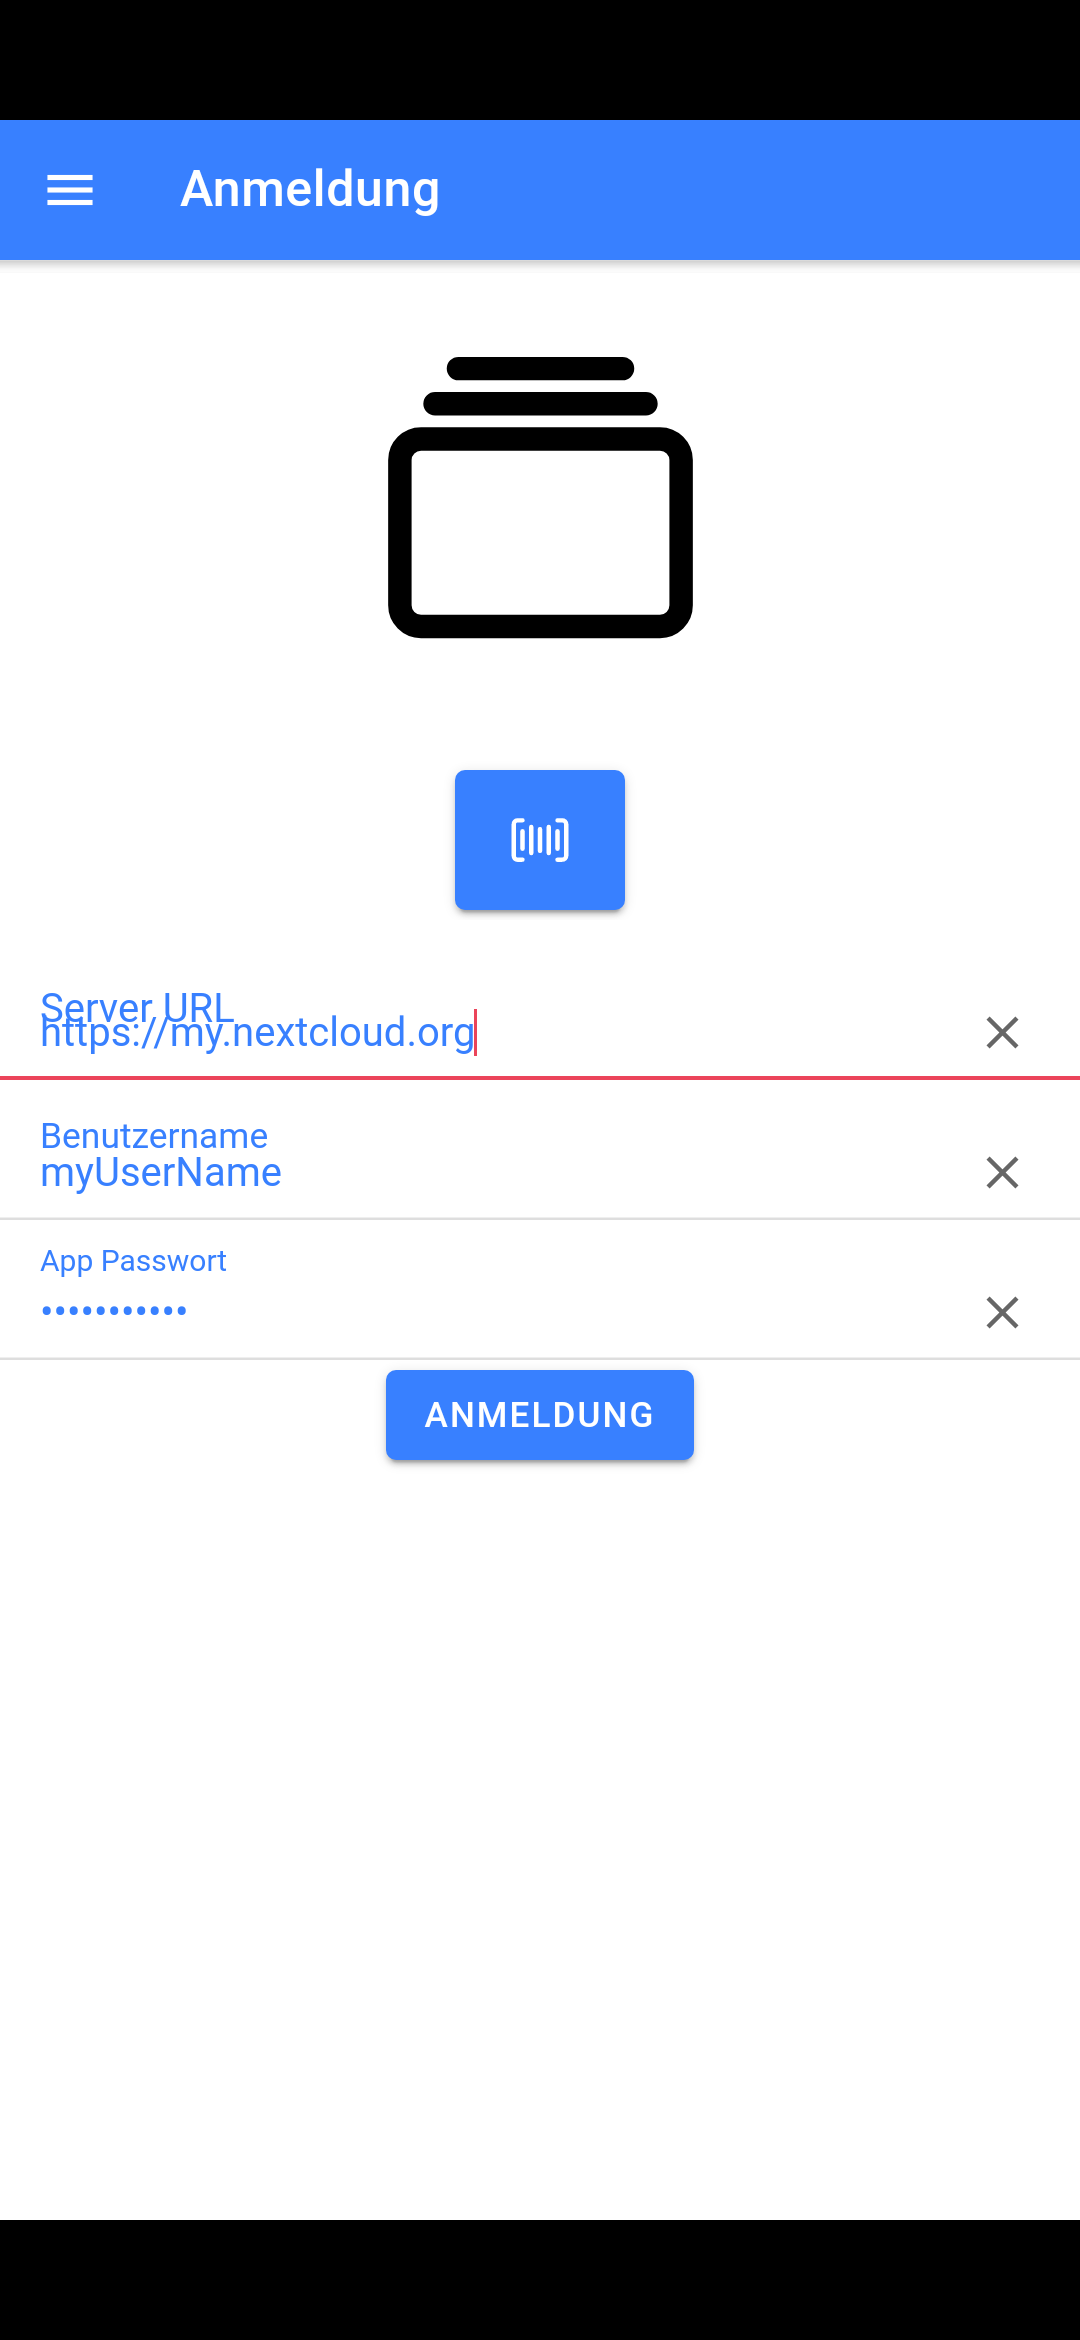
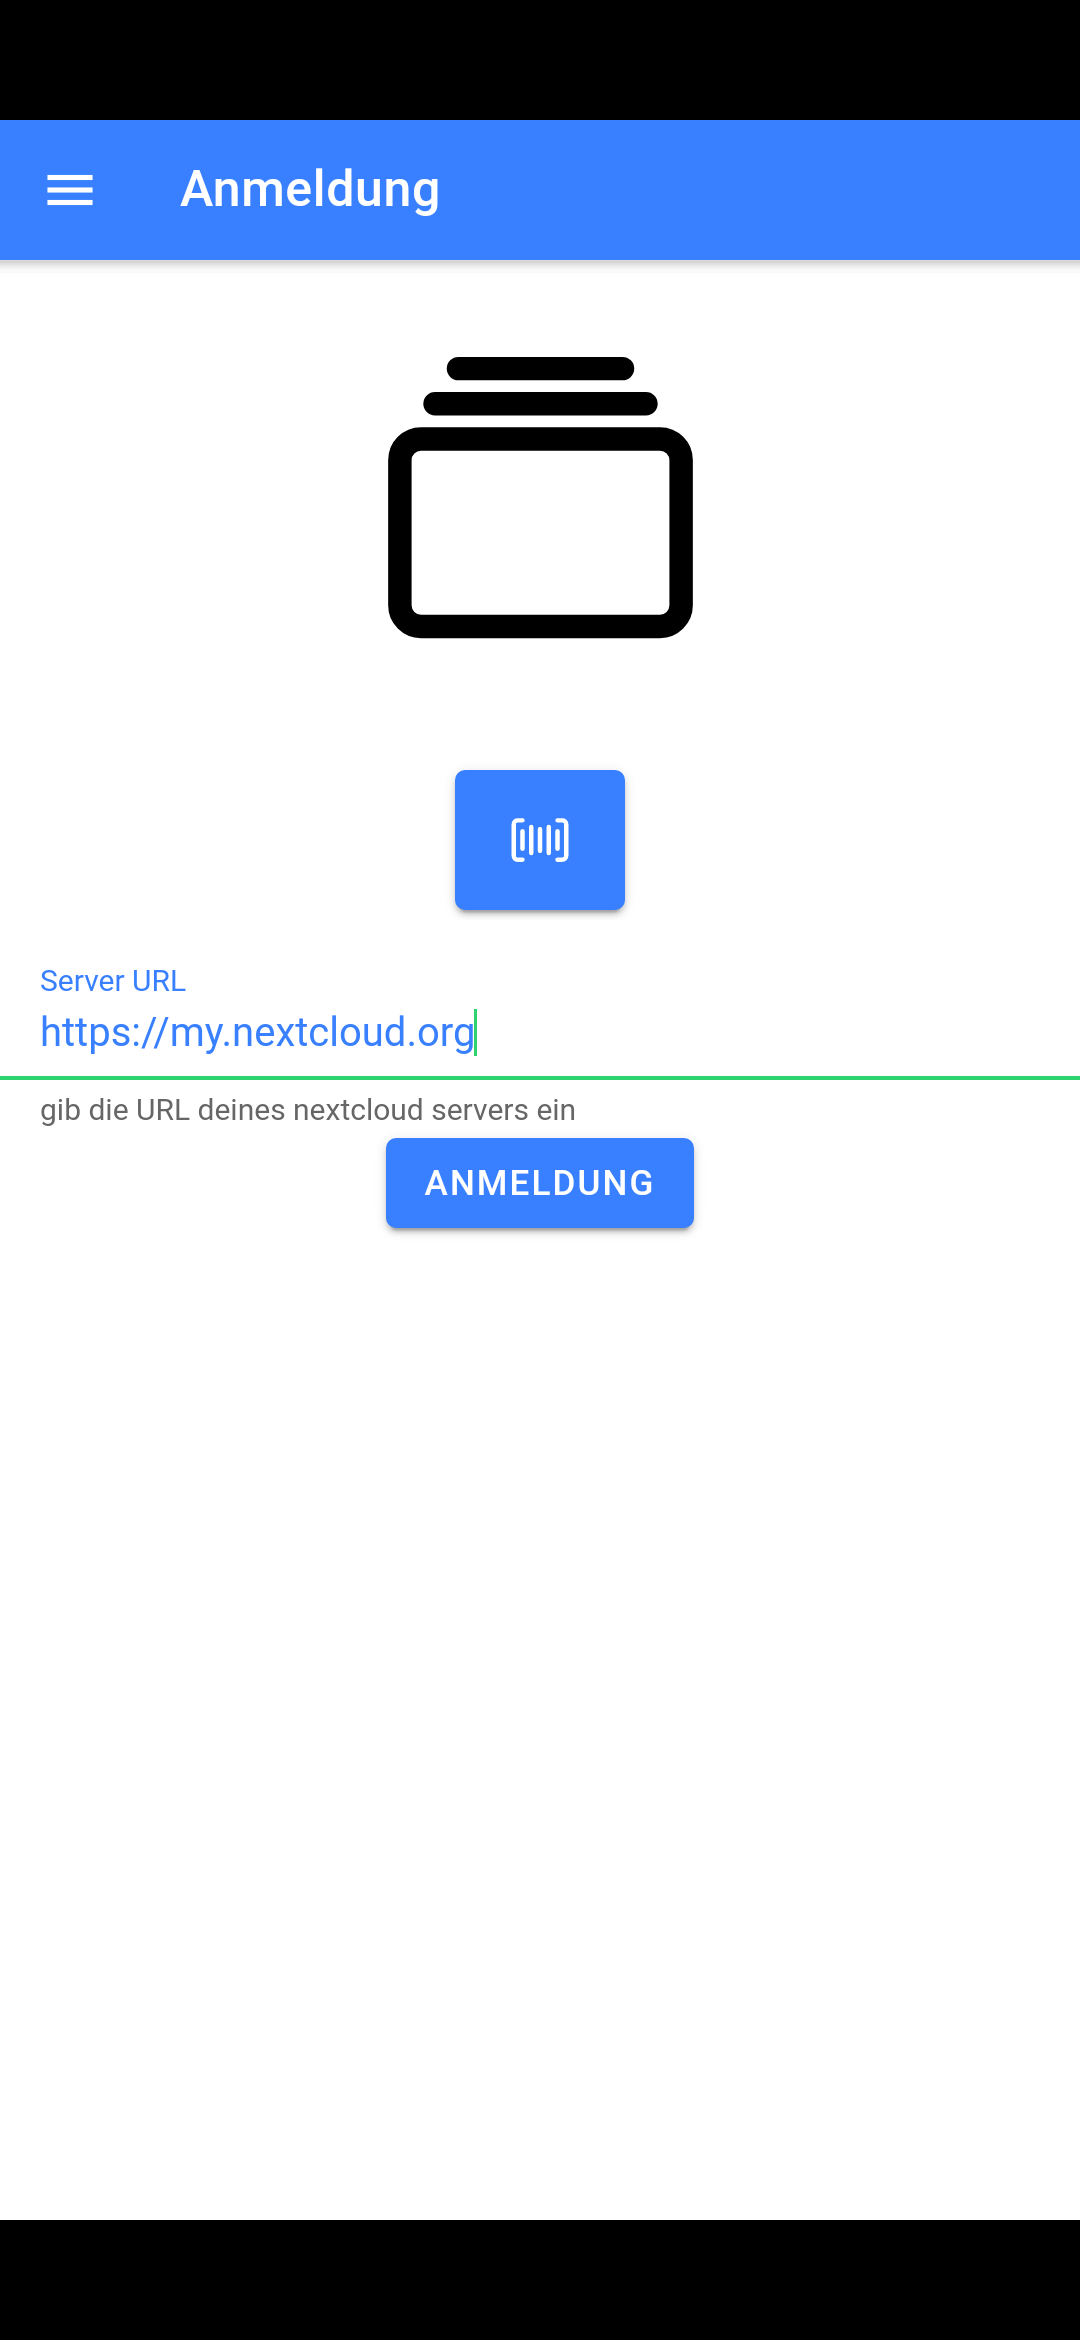
next step for release 1.2.0

diff --git a/src/environments/environment.prod.ts b/src/environments/environment.prod.ts
@@ -1,5 +1,3 @@
 export const environment = {
   production: true,
-  deckApiUrl: 'https://nextcloud.meltzow.net/index.php/apps/deck/api/v1.0',
-  nextcloudApiUrl: 'https://nextcloud.meltzow.net'
 };

diff --git a/src/environments/environment.ts b/src/environments/environment.ts
@@ -4,8 +4,6 @@
 
 export const environment = {
   production: false,
-  deckApiUrl: 'http://localhost:8080/index.php',
-  nextcloudApiUrl: 'http://localhost:8080/index.php'
 };
 
 /*

diff --git a/android/app/src/androidTest/java/com/getcapacitor/myapp/ExampleInstrumentedTest.java b/android/app/src/androidTest/java/com/getcapacitor/myapp/ExampleInstrumentedTest.java
@@ -66,30 +66,20 @@ public class ExampleInstrumentedTest {
 
     // find main menu button and click it
     String urlInputXPath = "//input[@name='url']";
-    String usernameInput= "//input[@name='username']";
-    String passwordInput= "//input[@name='password']";
     String loginBtn= "//ion-button[@type='submit']";
 
-    Atom<ElementReference> elementPassword = findElement(Locator.XPATH, passwordInput);
-    onWebView().withElement(elementPassword).perform(webKeys("AppPassword"));
-
-    Atom<ElementReference> elementUsername = findElement(Locator.XPATH, usernameInput);
-    onWebView().withElement(elementUsername).perform(webKeys("myUserName"));
-
     Atom<ElementReference> elementURL = findElement(Locator.XPATH, urlInputXPath);
-    onWebView().withElement(elementURL).perform(webKeys("https://my.nextcloud.org"));
+    onWebView().withContextualElement(elementURL).perform(webKeys("https://my.nextcloud.org"));
 
     Screengrab.screenshot("LoginScreen");
 
-    onWebView().withElement(elementPassword).perform(clearElement()).perform(webKeys("admin"));
-    onWebView().withElement(elementUsername).perform(clearElement()).perform(webKeys("admin"));
-    onWebView().withElement(elementURL).perform(clearElement()).perform(webKeys("http://192.168.178.25:8080"));
-    Atom<ElementReference> element3 = findElement(Locator.XPATH, loginBtn);
-    onWebView().withElement(element3).perform(webClick());
+//    onWebView().withElement(elementURL).perform(clearElement()).perform(webKeys("http://192.168.178.25:8080"));
+//    Atom<ElementReference> element3 = findElement(Locator.XPATH, loginBtn);
+//    onWebView().withElement(element3).perform(webClick());
+//
+//    Thread.sleep(3000);
 
-    Thread.sleep(3000);
-
-    Screengrab.screenshot("BoardsScreen");
+//    Screengrab.screenshot("BoardsScreen");
 
   }
 

diff --git a/fastlane/README.md b/fastlane/README.md
@@ -42,13 +42,21 @@ For _fastlane_ installation instructions, see [Installing _fastlane_](https://do
 
 ## iOS
 
+### ios build
+
+```sh
+[bundle exec] fastlane ios build
+```
+
+
+
 ### ios beta
 
 ```sh
 [bundle exec] fastlane ios beta
 ```
 
-Push a new beta build to TestFlight
+
 
 ### ios sim
 
@@ -83,6 +91,14 @@ Push a new beta build to TestFlight
 
 ```sh
 [bundle exec] fastlane android beta
+```
+
+
+
+### android build
+
+```sh
+[bundle exec] fastlane android build
 ```
 
 
